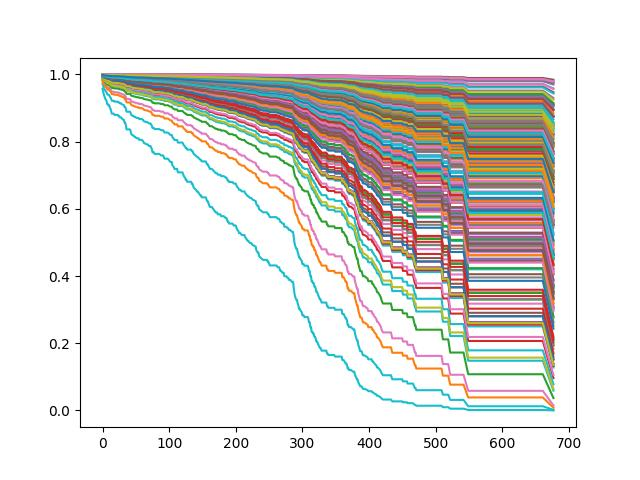
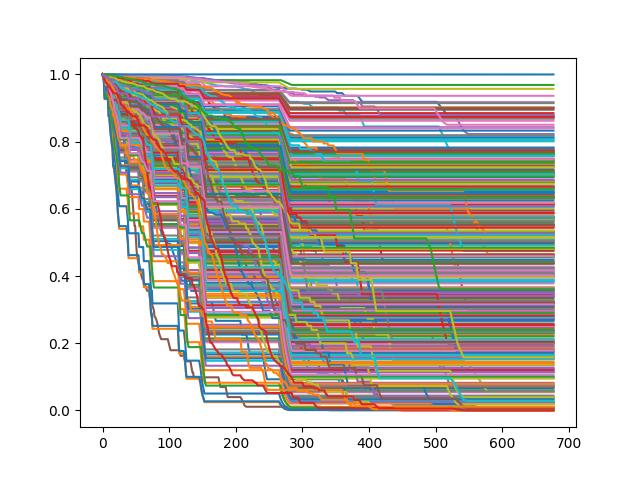
final commit

diff --git a/survival_analysis.py b/survival_analysis.py
@@ -34,11 +34,8 @@ def execute_sa(threshold = 0.1):
     session = Session()
 
     QUERY_LIMIT = 5000  # we define this query limit here to avoid huge computing times and crashing.
-    view_name = 'survival_df'
-    SurvivalDf = Table(view_name, Base.metadata, autoload_with=engine)
+    view_name = 'view_for_sa'
 
-
-    #dati = session.query(SurvivalDf).order_by(SurvivalDf.c.cow_id).limit(QUERY_LIMIT).all()
     query = f"SELECT * FROM {view_name} WHERE cow_id IS NOT NULL ORDER BY cow_id LIMIT {QUERY_LIMIT};"
     result = session.execute(text(query))
     dati = result.fetchall()
@@ -47,6 +44,7 @@ def execute_sa(threshold = 0.1):
     final_features = ['Flux0', 'Flux3', 'FluxMonotone', 'Prod', 'DifferentialCells',
                   'LastDifferentialCells', 'Urea', 'NumberPastMastitis', 'LactN']
     cow_id = dati['cow_id']
+    time_healty = dati['days_healthy']
     dati = dati[final_features]
     dati = dati.apply(pd.to_numeric, errors='coerce')
 
@@ -76,7 +74,7 @@ def execute_sa(threshold = 0.1):
     with open('fitted_model/survival_model_m2.pkl', 'rb') as f:
         m2 = pickle.load(f)
 
-    SF = m2.predict_survival_function(df_std) #, conditional_after = censored_subjects_last_obs
+    SF = m2.predict_survival_function(df_std, conditional_after=time_healty) #, conditional_after = censored_subjects_last_obs
 
     to_cure = get_cows_to_cure(SF, threshold)
     plt.plot(SF)
@@ -94,4 +92,4 @@ def execute_sa(threshold = 0.1):
 
 
 
-#print(execute_sa())
+print(execute_sa())

diff --git a/data6.py b/data6.py
@@ -86,4 +86,4 @@ def load_data6(path_to_file: str):
             session.rollback()
             print(f"skipping df {idx}")
 
-load_data6('/home/filippo/Downloads/1370806_PST_GetLA13_CelluleDifferenziali_MS_ViaEmail_20200618095821187.pdf')
+#load_data6('/home/filippo/Downloads/1370806_PST_GetLA13_CelluleDifferenziali_MS_ViaEmail_20200618095821187.pdf')
